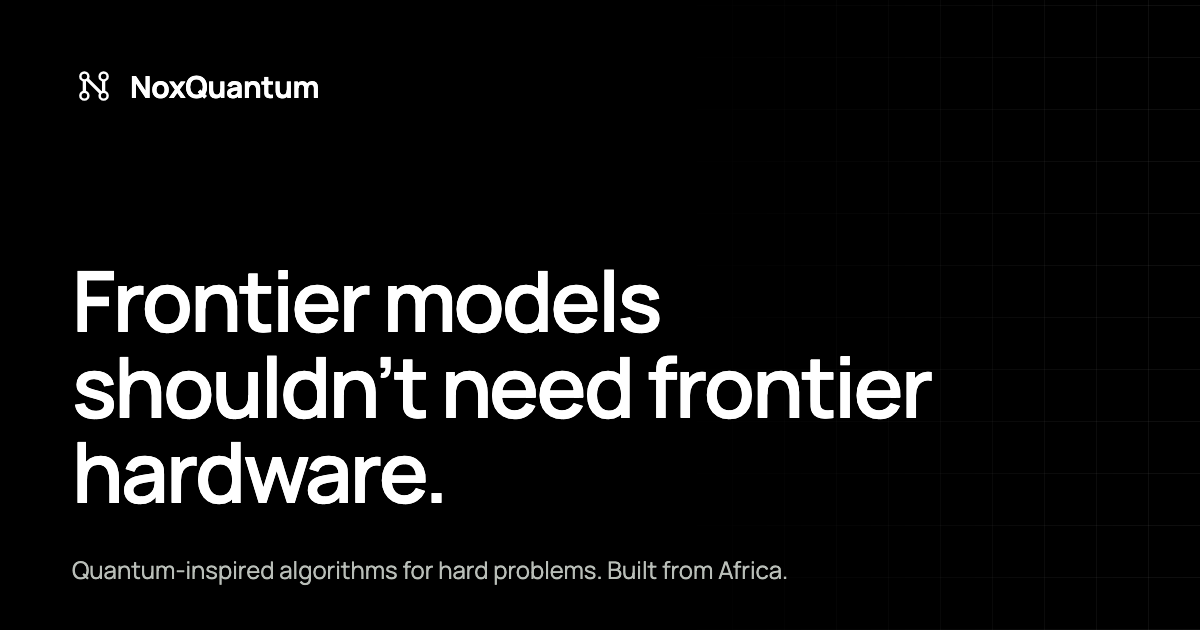
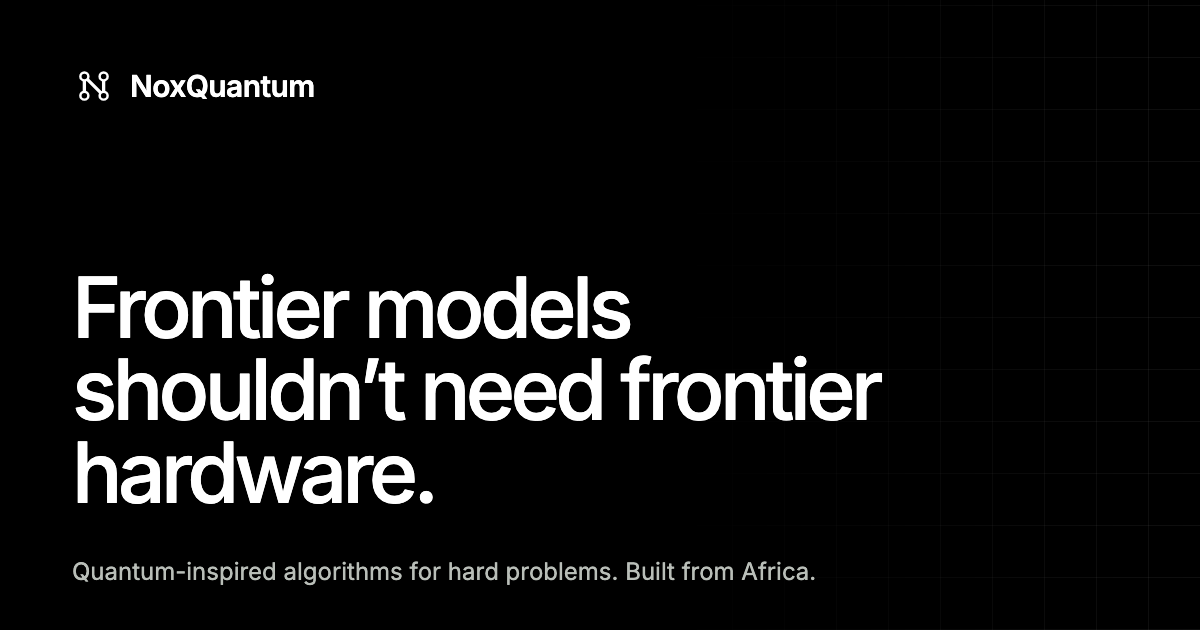
style: switch the site font from Manrope to Inter
The hero headline on the reference site is Inter at weight 500 with very tight tracking, and that is
the look wanted here. The whole site now uses Inter so headings and body match: headlines go to
weight 500, the hero tightens to -0.055em tracking and 0.96 line height, and buttons and the wordmark
settle at 500 and 600. The pre-render script preloads the Inter Latin file, and the social preview
image is redrawn in Inter.

Costs about 23 KB more on a first visit (the Latin variable file is 48 KB against 25 KB).

diff --git a/src/style.css b/src/style.css
@@ -16,8 +16,7 @@
   --select: #c85a00;
   --select-dark: var(--accent);
   --mono: ui-monospace, 'SF Mono', 'JetBrains Mono', Menlo, Consolas, monospace;
-  --font:
-    'Manrope Variable', 'Manrope', 'Inter', system-ui, -apple-system, 'Segoe UI', Arial, sans-serif;
+  --font: 'Inter Variable', 'Inter', system-ui, -apple-system, 'Segoe UI', Arial, sans-serif;
 }
 
 * {
@@ -90,9 +89,9 @@ svg {
 }
 
 .wordmark {
-  font-weight: 700;
+  font-weight: 600;
   font-size: 17px;
-  letter-spacing: -0.01em;
+  letter-spacing: -0.02em;
   color: #fff;
   text-decoration: none;
   white-space: nowrap;
@@ -276,8 +275,8 @@ button:focus-visible {
 .hero h1 {
   font-weight: 500;
   font-size: clamp(34px, 4vw, 58px);
-  line-height: 0.98;
-  letter-spacing: -0.045em;
+  line-height: 0.96;
+  letter-spacing: -0.055em;
   color: #fff;
   margin: 0 0 18px;
   max-width: 12em;
@@ -313,10 +312,10 @@ button:focus-visible {
 }
 
 .section-title {
-  font-weight: 600;
+  font-weight: 500;
   font-size: clamp(26px, 2.9vw, 40px);
   line-height: 1.05;
-  letter-spacing: -0.028em;
+  letter-spacing: -0.04em;
   margin: 0 0 16px;
 }
 
@@ -595,8 +594,8 @@ button:focus-visible {
 
 .compare-name {
   font-size: 18px;
-  font-weight: 600;
-  letter-spacing: -0.01em;
+  font-weight: 500;
+  letter-spacing: -0.02em;
 }
 
 .compare-flap {
@@ -705,10 +704,10 @@ button:focus-visible {
 }
 
 .cta-band h2 {
-  font-weight: 600;
+  font-weight: 500;
   font-size: clamp(24px, 2.7vw, 36px);
   line-height: 1.06;
-  letter-spacing: -0.03em;
+  letter-spacing: -0.045em;
   max-width: 17em;
   margin: 0 0 20px;
   text-wrap: balance;
@@ -931,9 +930,9 @@ button:focus-visible {
 }
 
 .protocol h3 {
-  font-weight: 600;
+  font-weight: 500;
   font-size: clamp(20px, 2vw, 26px);
-  letter-spacing: -0.02em;
+  letter-spacing: -0.03em;
   line-height: 1.15;
   margin: 0 0 10px;
   transition: color 0.4s ease;
@@ -1103,10 +1102,10 @@ button:focus-visible {
 }
 
 .panel-name {
-  font-weight: 600;
+  font-weight: 500;
   font-size: clamp(20px, 2vw, 28px);
   line-height: 1.1;
-  letter-spacing: -0.02em;
+  letter-spacing: -0.035em;
   max-width: 12em;
 }
 
@@ -1200,7 +1199,7 @@ button:focus-visible {
   font-weight: 500;
   font-size: clamp(26px, 3vw, 44px);
   line-height: 1.08;
-  letter-spacing: -0.035em;
+  letter-spacing: -0.045em;
 }
 
 .africa-pin .source {

diff --git a/src/main.tsx b/src/main.tsx
@@ -1,4 +1,4 @@
-import '@fontsource-variable/manrope'
+import '@fontsource-variable/inter'
 import { StrictMode } from 'react'
 import { createRoot, hydrateRoot } from 'react-dom/client'
 import App from './App'
